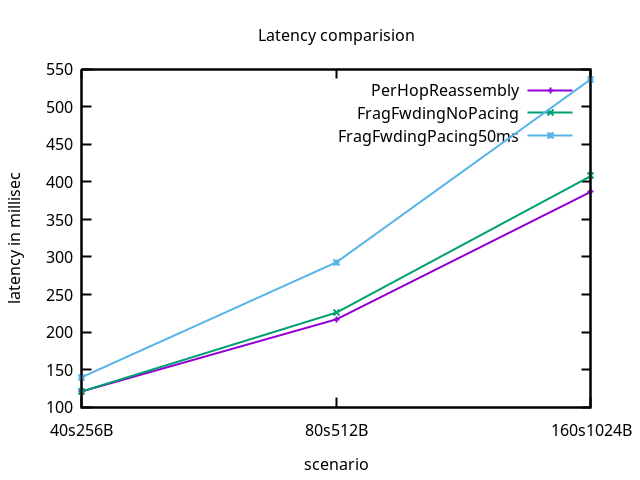
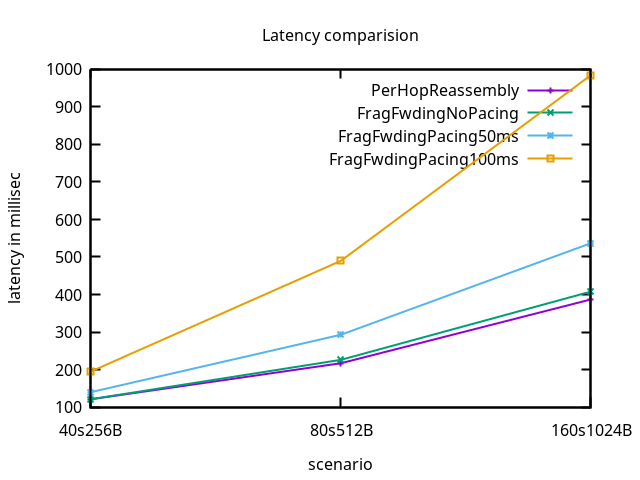
added data for 100ms pacing

diff --git a/6lo-fragfwd-perf-report.rst b/6lo-fragfwd-perf-report.rst
@@ -106,6 +106,12 @@ Experiment1: Send Rate=40s, UDP Payload size=256B
 |                    +---+-----+----------+----------+----------+---------+-------------------------+----------+
 |                    | 3 | 96% | 23605    | 1366     | 296      | 98      | 54/553/137              | 21       |
 +--------------------+---+-----+----------+----------+----------+---------+-------------------------+----------+
+| With Frag Fwding   | 1 | 98% | 31323    | 997      | 193      | 48      | 108/467/199             | 17       |
+| pacing interval    +---+-----+----------+----------+----------+---------+-------------------------+----------+
+| of 100ms           | 2 | 98% | 31613    | 988      | 203      | 62      | 111/436/199             | 13       |
+|                    +---+-----+----------+----------+----------+---------+-------------------------+----------+
+|                    | 3 | 98% | 26124    | 865      | 172      | 59      | 109/368/193             | 16       |
++--------------------+---+-----+----------+----------+----------+---------+-------------------------+----------+
 
 Experiment2: Send Rate=80s, UDP Payload size=512B
 `````````````````````````````````````````````````
@@ -130,6 +136,12 @@ Experiment2: Send Rate=80s, UDP Payload size=512B
 |                    +---+-----+----------+----------+----------+---------+-------------------------+----------+
 |                    | 3 | 92% | 31609    | 1832     | 405      | 163     | 135/2425/311            | 19       |
 +--------------------+---+-----+----------+----------+----------+---------+-------------------------+----------+
+| With Frag Fwding   | 1 | 97% | 29028    | 826      | 154      | 47      | 339/693/488             | 13       |
+| pacing interval    +---+-----+----------+----------+----------+---------+-------------------------+----------+
+| of 100ms           | 2 | 97% | 29045    | 787      | 128      | 34      | 330/645/490             | 15       |
+|                    +---+-----+----------+----------+----------+---------+-------------------------+----------+
+|                    | 3 | 96% | 28157    | 784      | 125      | 47      | 311/719/491             | 16       |
++--------------------+---+-----+----------+----------+----------+---------+-------------------------+----------+
 
 Experiment3: Send Rate=160s, UDP Payload size=1024B
 `````````````````````````````````````````````````
@@ -153,6 +165,12 @@ Experiment3: Send Rate=160s, UDP Payload size=1024B
 | of 50ms            | 2 | 82% | 33214    | 1955     | 501      | 233     | 384/810/544             | 31       |
 |                    +---+-----+----------+----------+----------+---------+-------------------------+----------+
 |                    | 3 | 82% | 29958    | 1802     | 432      | 202     | 453/775/543             | 31       |
++--------------------+---+-----+----------+----------+----------+---------+-------------------------+----------+
+| With Frag Fwding   | 1 | 96% | 33417    | 705      | 100      | 37      | 747/1227/985            | 14       |
+| pacing interval    +---+-----+----------+----------+----------+---------+-------------------------+----------+
+| of 100ms           | 2 | 97% | 33892    | 842      | 132      | 34      | 814/1136/985            | 14       |
+|                    +---+-----+----------+----------+----------+---------+-------------------------+----------+
+|                    | 3 | 96% | 40766    | 855      | 131      | 52      | 808/1099/985            | 14       |
 +--------------------+---+-----+----------+----------+----------+---------+-------------------------+----------+
 
 Graphs
